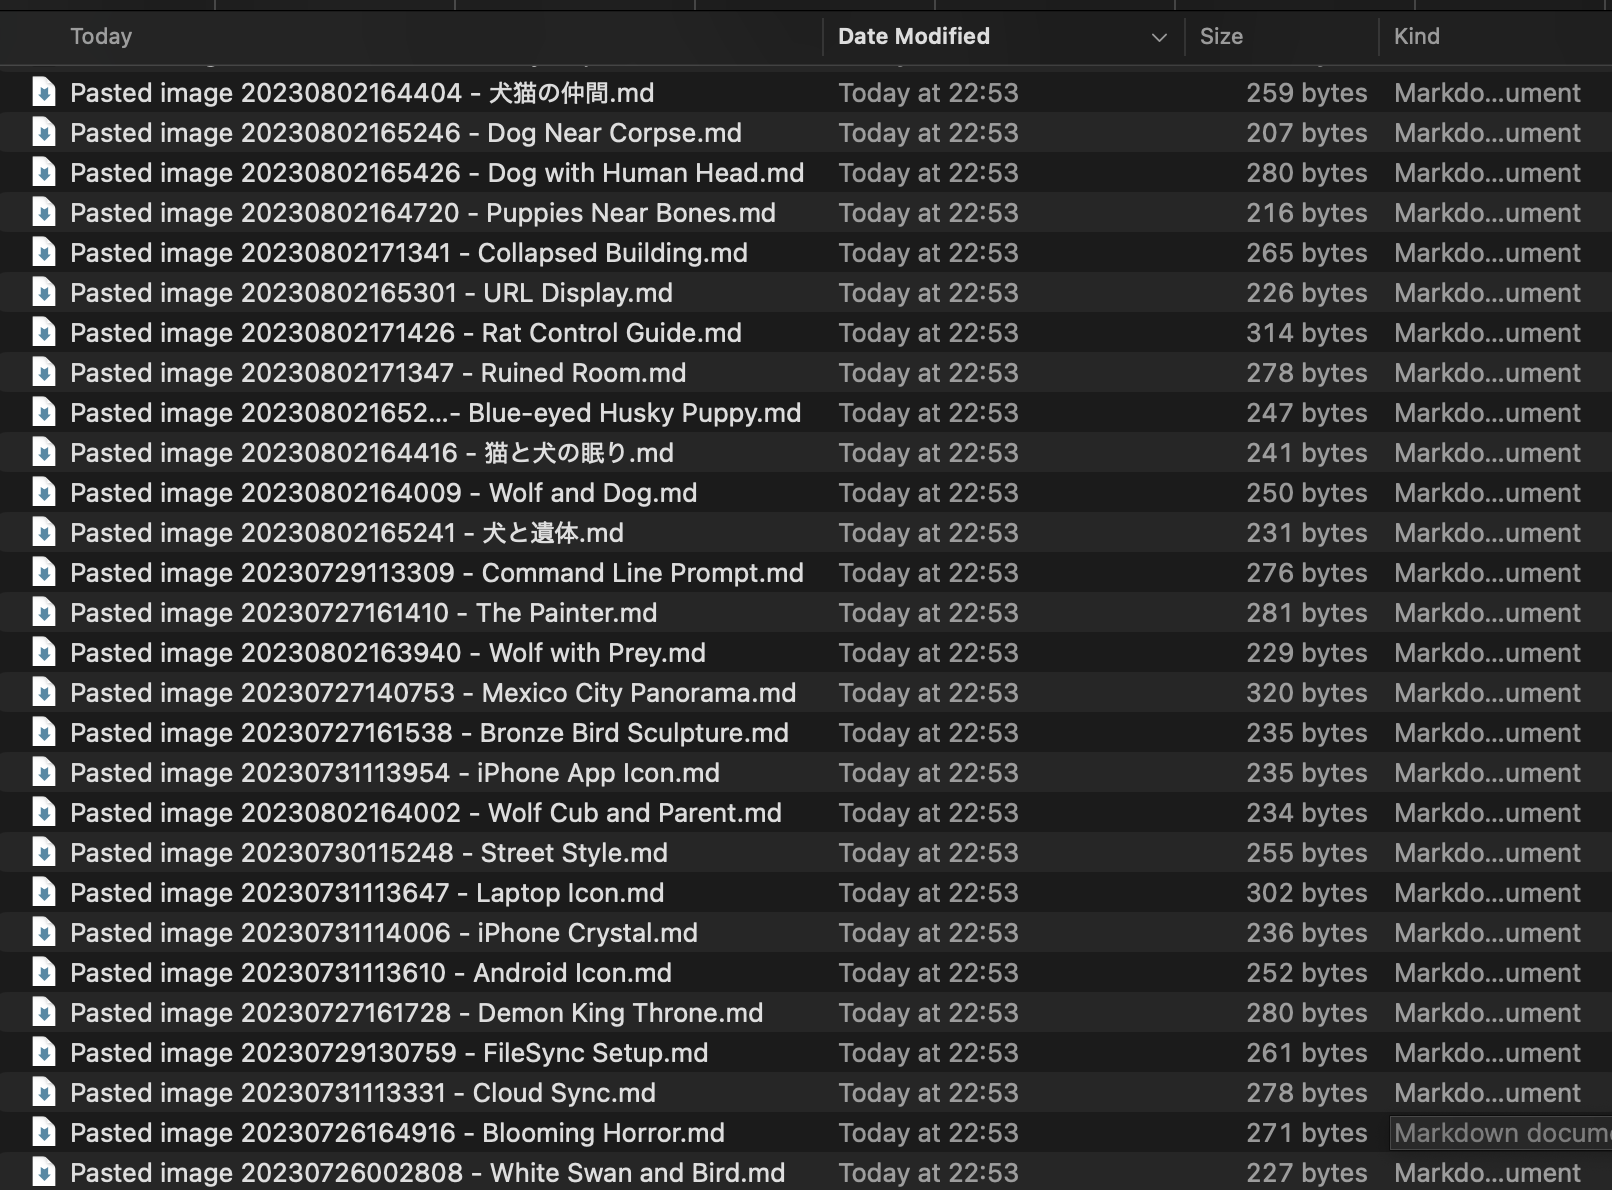
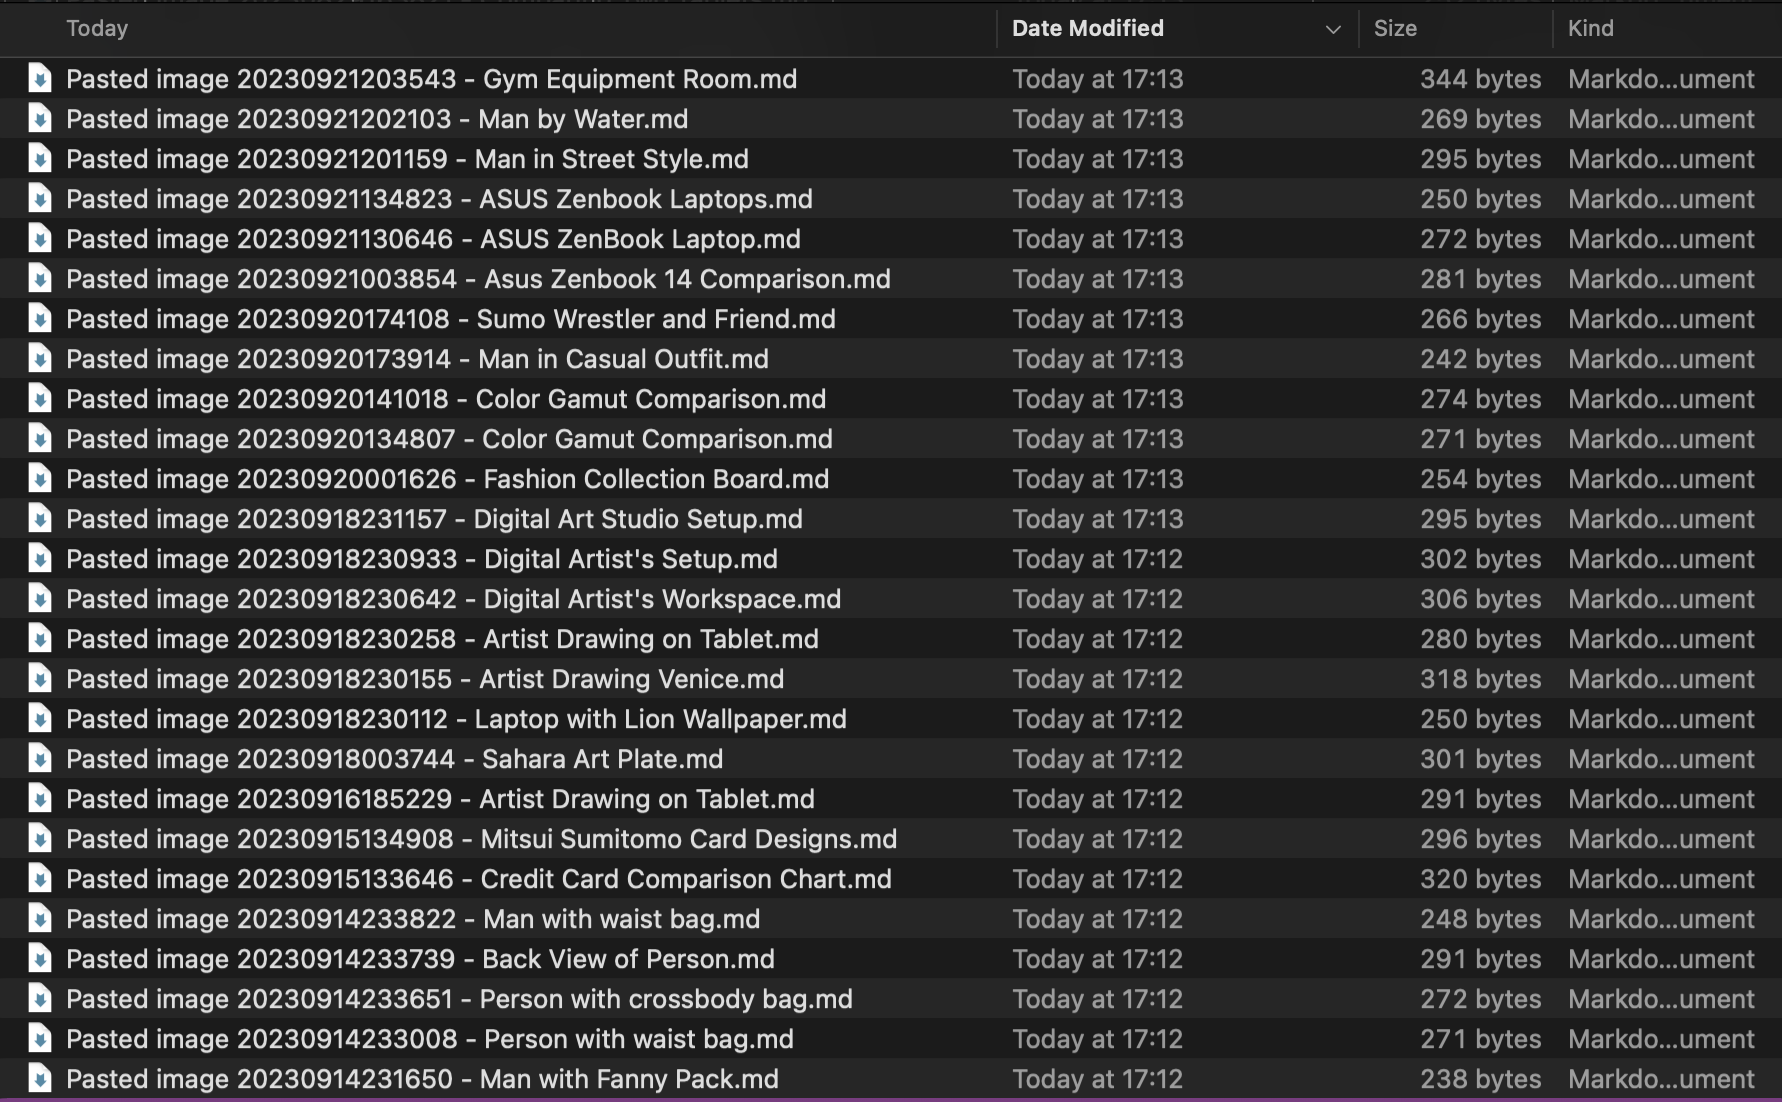
UI: Revert fox photo to side-by-side and update after_directory image

Changed region(s): [[0.0, 0.0, 1.0, 1.0], [0.7444, 0.0, 0.8065, 0.0617]]

diff --git a/README.md b/README.md
@@ -26,12 +26,9 @@ AI-driven English titles and sidecar metadata for every asset.
 ### 2. Asset Enrichment (Micro View)
 Transforming raw visual data into structured metadata. Below is an example of a **Fox Photo** being analyzed and embedded into a Sidecar MD file with AI-generated tags, descriptions, and backlink tracking.
 
-#### 🦊 Example: From Raw Asset to Knowledge
-**Input Image:**
-<img src="Sample/before_fox_image.png" width="600">
-
-**Generated Sidecar Metadata (Side-by-Side):**
-<img src="Sample/after_fox_image.png" width="600">
+| Input: Raw Image Asset | Output: Structured Sidecar MD |
+| :---: | :---: |
+| <img src="Sample/before_fox_image.png" width="450"> | <img src="Sample/after_fox_image.png" width="450"> |
 
 ---
 
